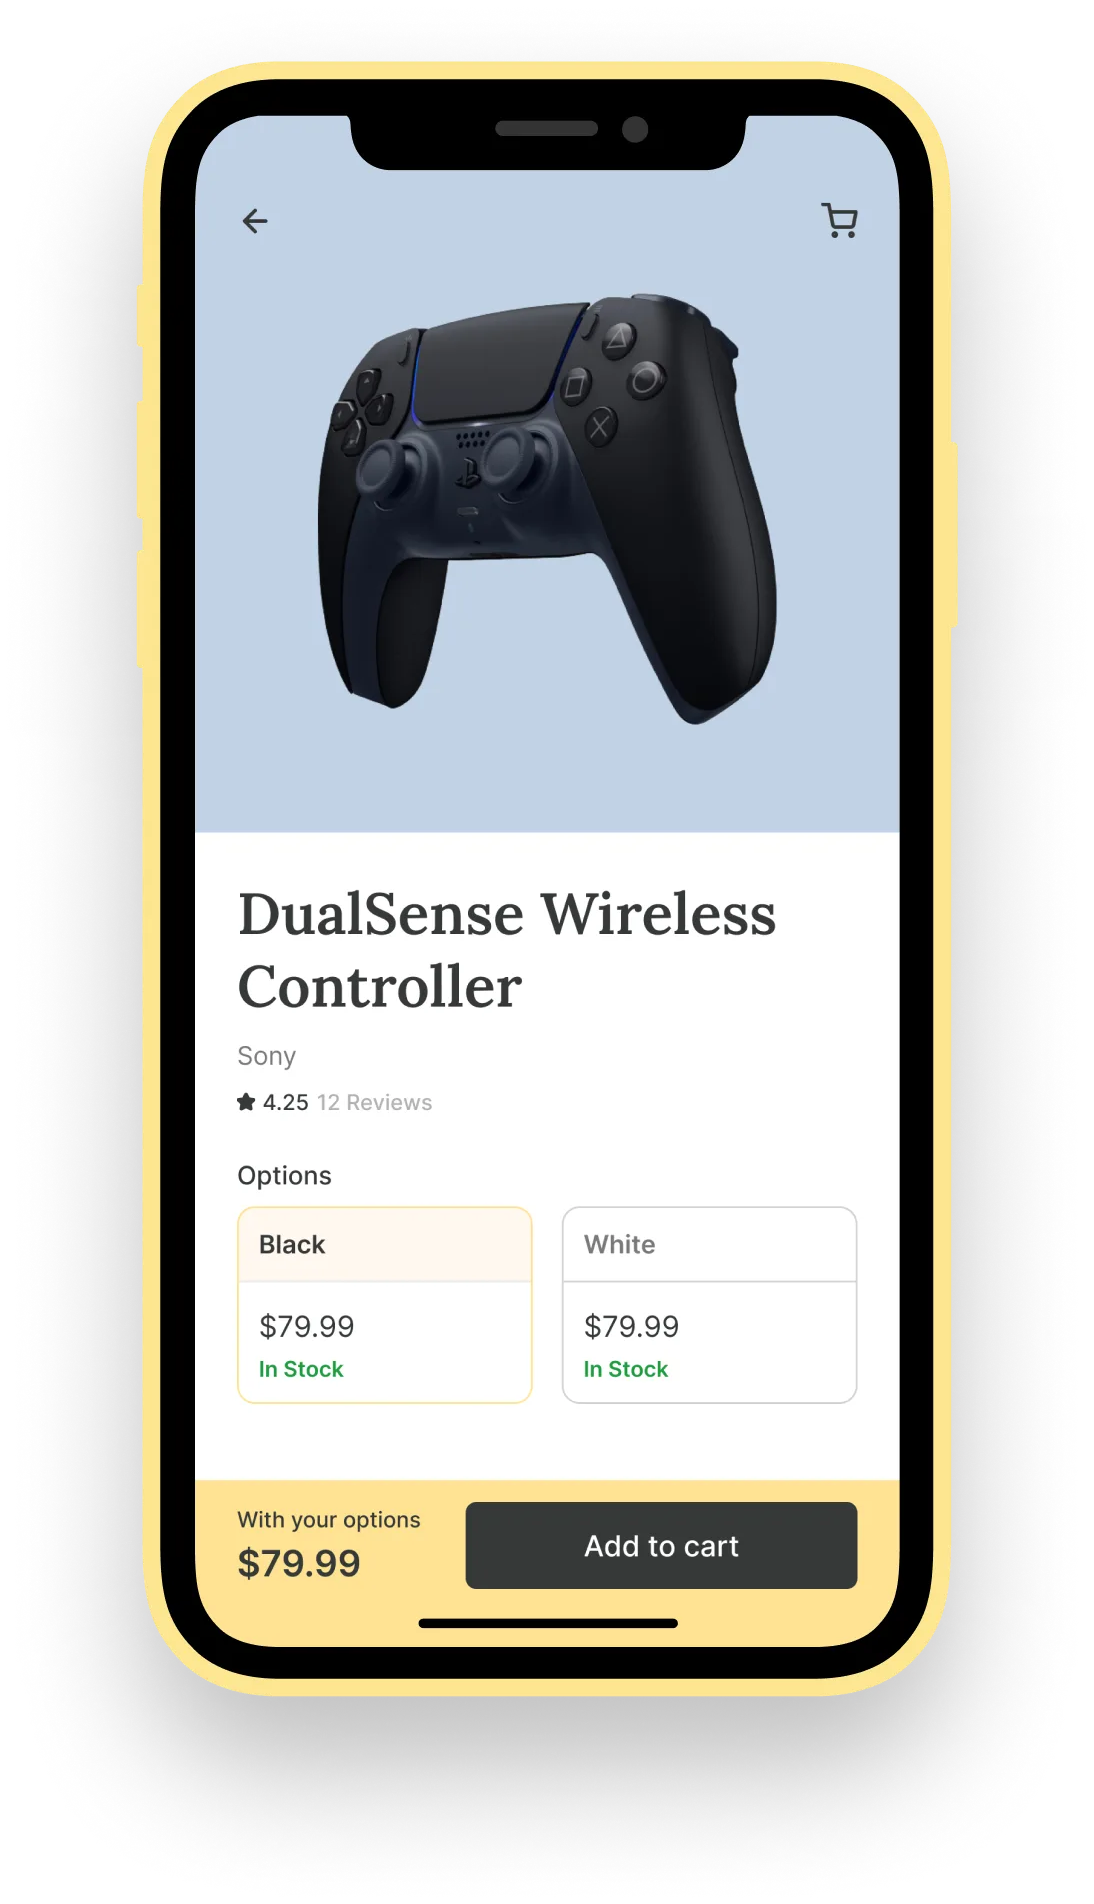
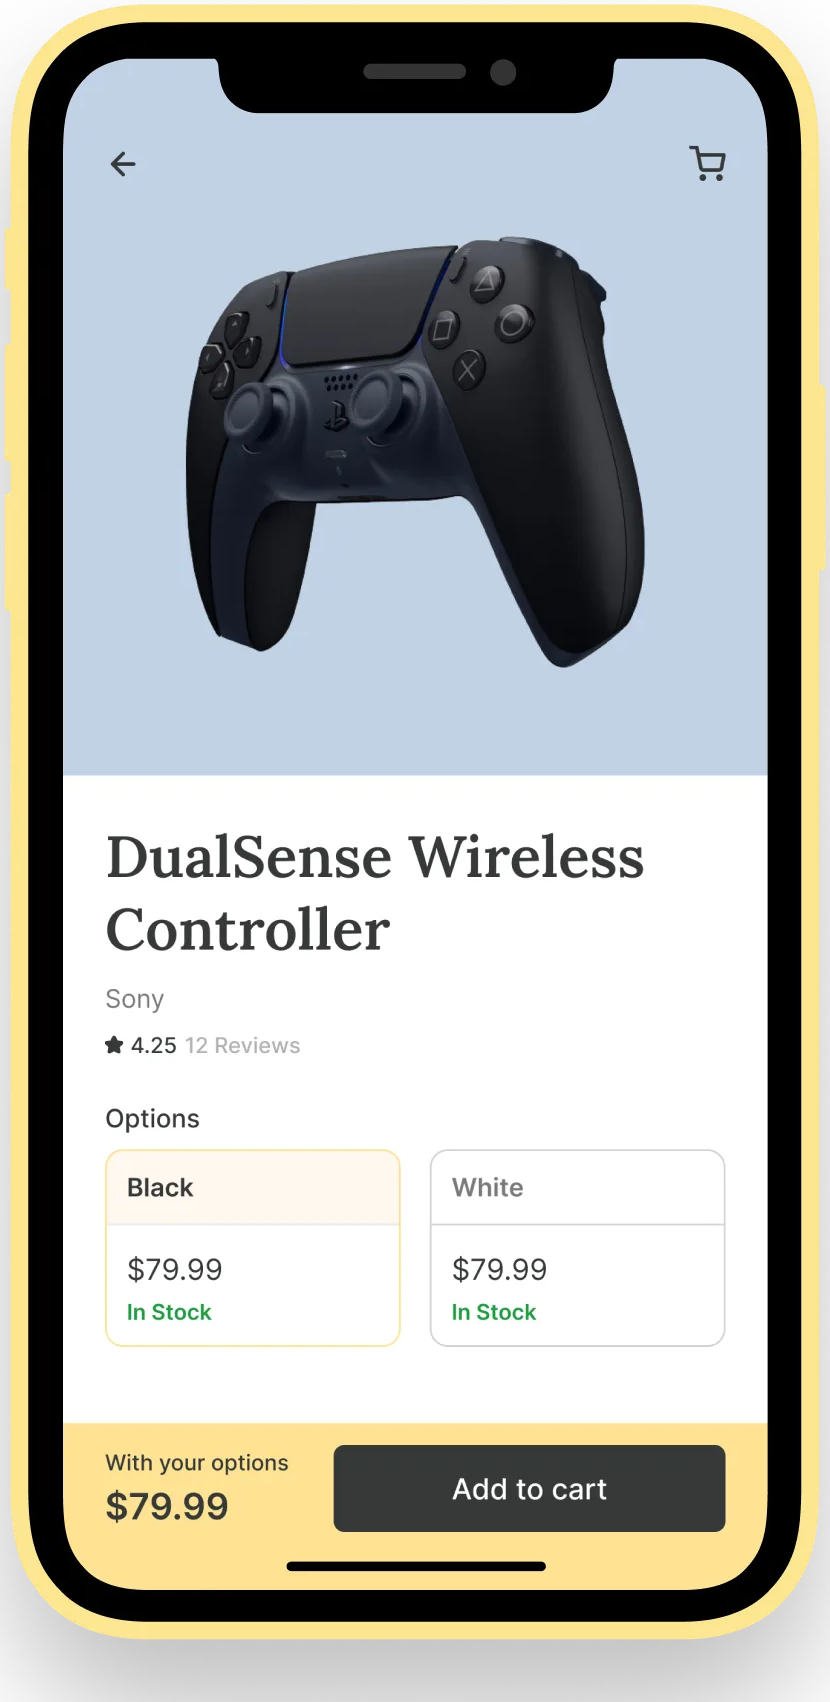
Strip baked-in halo from Snapp phone mockup renders
The supplied mockup PNGs had a soft ambient shadow baked in that extended well past the phone bezel; tightly cropping only became a visible rounded-rectangle smudge once three overlapped. Re-cropped each to a stricter alpha threshold to drop that halo, and replaced the doubled-up CSS drop-shadow with one subtle shadow.

diff --git a/projects/dashboard.html b/projects/dashboard.html
@@ -8,7 +8,7 @@
 <link rel="preconnect" href="https://fonts.googleapis.com">
 <link rel="preconnect" href="https://fonts.gstatic.com" crossorigin>
 <link href="https://fonts.googleapis.com/css2?family=Quicksand:wght@500;600;700&family=Poppins:wght@300;400;500;600&display=swap" rel="stylesheet">
-<link rel="stylesheet" href="../styles.css?v=1790718455_29407">
+<link rel="stylesheet" href="../styles.css?v=1790718597_29691">
 </head>
 <body>
 
@@ -237,7 +237,7 @@
   </section>
 </main>
 
-<script src="../script.js?v=1790718455_29407"></script>
+<script src="../script.js?v=1790718597_29691"></script>
 <script>document.getElementById('year').textContent = new Date().getFullYear();</script>
 </body>
 </html>

diff --git a/projects/plant-b.html b/projects/plant-b.html
@@ -8,7 +8,7 @@
 <link rel="preconnect" href="https://fonts.googleapis.com">
 <link rel="preconnect" href="https://fonts.gstatic.com" crossorigin>
 <link href="https://fonts.googleapis.com/css2?family=Quicksand:wght@500;600;700&family=Poppins:wght@300;400;500;600&display=swap" rel="stylesheet">
-<link rel="stylesheet" href="../styles.css?v=1790718455_29407">
+<link rel="stylesheet" href="../styles.css?v=1790718597_29691">
 </head>
 <body>
 
@@ -124,7 +124,7 @@
   </section>
 </main>
 
-<script src="../script.js?v=1790718455_29407"></script>
+<script src="../script.js?v=1790718597_29691"></script>
 <script>document.getElementById('year').textContent = new Date().getFullYear();</script>
 </body>
 </html>

diff --git a/projects/shop.html b/projects/shop.html
@@ -8,7 +8,7 @@
 <link rel="preconnect" href="https://fonts.googleapis.com">
 <link rel="preconnect" href="https://fonts.gstatic.com" crossorigin>
 <link href="https://fonts.googleapis.com/css2?family=Quicksand:wght@500;600;700&family=Poppins:wght@300;400;500;600&display=swap" rel="stylesheet">
-<link rel="stylesheet" href="../styles.css?v=1790718455_29407">
+<link rel="stylesheet" href="../styles.css?v=1790718597_29691">
 </head>
 <body>
 
@@ -146,7 +146,7 @@
   </section>
 </main>
 
-<script src="../script.js?v=1790718455_29407"></script>
+<script src="../script.js?v=1790718597_29691"></script>
 <script>document.getElementById('year').textContent = new Date().getFullYear();</script>
 </body>
 </html>

diff --git a/projects/tiny-rocket.html b/projects/tiny-rocket.html
@@ -8,7 +8,7 @@
 <link rel="preconnect" href="https://fonts.googleapis.com">
 <link rel="preconnect" href="https://fonts.gstatic.com" crossorigin>
 <link href="https://fonts.googleapis.com/css2?family=Quicksand:wght@500;600;700&family=Poppins:wght@300;400;500;600&display=swap" rel="stylesheet">
-<link rel="stylesheet" href="../styles.css?v=1790718455_29407">
+<link rel="stylesheet" href="../styles.css?v=1790718597_29691">
 </head>
 <body>
 
@@ -125,7 +125,7 @@
   </section>
 </main>
 
-<script src="../script.js?v=1790718455_29407"></script>
+<script src="../script.js?v=1790718597_29691"></script>
 <script>document.getElementById('year').textContent = new Date().getFullYear();</script>
 </body>
 </html>

diff --git a/projects/breath-natural.html b/projects/breath-natural.html
@@ -8,7 +8,7 @@
 <link rel="preconnect" href="https://fonts.googleapis.com">
 <link rel="preconnect" href="https://fonts.gstatic.com" crossorigin>
 <link href="https://fonts.googleapis.com/css2?family=Quicksand:wght@500;600;700&family=Poppins:wght@300;400;500;600&display=swap" rel="stylesheet">
-<link rel="stylesheet" href="../styles.css?v=1790718455_29407">
+<link rel="stylesheet" href="../styles.css?v=1790718597_29691">
 </head>
 <body>
 
@@ -83,7 +83,7 @@
   </section>
 </main>
 
-<script src="../script.js?v=1790718455_29407"></script>
+<script src="../script.js?v=1790718597_29691"></script>
 <script>document.getElementById('year').textContent = new Date().getFullYear();</script>
 </body>
 </html>

diff --git a/index.html b/index.html
@@ -8,7 +8,7 @@
 <link rel="preconnect" href="https://fonts.googleapis.com">
 <link rel="preconnect" href="https://fonts.gstatic.com" crossorigin>
 <link href="https://fonts.googleapis.com/css2?family=Quicksand:wght@500;600;700&family=Poppins:wght@300;400;500;600&display=swap" rel="stylesheet">
-<link rel="stylesheet" href="styles.css?v=1790718455_29407">
+<link rel="stylesheet" href="styles.css?v=1790718597_29691">
 </head>
 <body>
 
@@ -324,6 +324,6 @@
 
 </main>
 
-<script src="script.js?v=1790718455_29407"></script>
+<script src="script.js?v=1790718597_29691"></script>
 </body>
 </html>

diff --git a/styles.css b/styles.css
@@ -930,7 +930,7 @@ img.badge--photo{
   position:absolute;
   width:31%;
   max-width:210px;
-  filter:drop-shadow(0 25px 40px rgba(0,0,0,.3));
+  filter:drop-shadow(0 10px 14px rgba(0,0,0,.18));
 }
 .snapp-hero__phone--1{top:0;left:-2%;z-index:1;}
 .snapp-hero__phone--2{top:12%;left:32%;z-index:3;}
